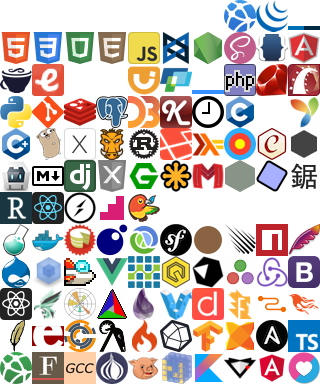
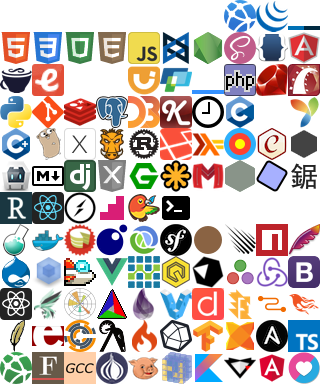
Finish Fish scraper

Changed region(s): [[0.5, 0.5, 0.5938, 0.5938]]

diff --git a/assets/stylesheets/global/_icons.scss b/assets/stylesheets/global/_icons.scss
@@ -116,6 +116,7 @@
 ._icon-socketio:before      { background-position: -2rem -6rem; }
 ._icon-modernizr:before     { background-position: -3rem -6rem; }
 ._icon-bower:before         { background-position: -4rem -6rem; }
+._icon-fish:before          { background-position: -5rem -6rem; @extend %darkIconFix !optional; }
 ._icon-bottle:before        { background-position: 0 -7rem; }
 ._icon-docker:before        { background-position: -1rem -7rem; }
 ._icon-cakephp:before       { background-position: -2rem -7rem; }

diff --git a/lib/docs/scrapers/fish.rb b/lib/docs/scrapers/fish.rb
@@ -2,35 +2,29 @@ module Docs
   class Fish < UrlScraper
     self.name = 'Fish'
     self.type = 'fish'
+    self.root_path = 'index.html'
     self.links = {
-      home: 'http://fishshell.com/',
+      home: 'https://fishshell.com/',
       code: 'https://github.com/fish-shell/fish-shell'
     }
 
     html_filters.push 'fish/clean_html', 'fish/entries'
 
-    options[:only] = %w(
-      index.html
-      tutorial.html
-      commands.html
-      faq.html
-    )
+    options[:skip] = %w(design.html license.html)
 
     options[:attribution] = <<-HTML
       &copy; 2005&ndash;2009 Axel Liljencrantz<br>
-      &copy; 2009&ndash;2016 The fish contributors<br>
       Licensed under the GNU General Public License, version 2.
     HTML
 
     version '2.3' do
       self.release = '2.3.1'
-      self.base_url = "http://fishshell.com/docs/#{version}/"
-      self.root_path = 'index.html'
+      self.base_url = "https://fishshell.com/docs/#{version}/"
     end
+
     version '2.2' do
       self.release = '2.2.0'
-      self.base_url = "http://fishshell.com/docs/#{version}/"
-      self.root_path = 'index.html'
+      self.base_url = "https://fishshell.com/docs/#{version}/"
     end
   end
 end

diff --git a/lib/docs/filters/fish/entries.rb b/lib/docs/filters/fish/entries.rb
@@ -1,17 +1,28 @@
 module Docs
   class Fish
     class EntriesFilter < Docs::EntriesFilter
+      def get_name
+        if slug == 'faq'
+          'FAQ'
+        else
+          slug.capitalize
+        end
+      end
 
-      def include_default_entry?
-        false
+      def get_type
+        if root_page? || slug == 'faq'
+          'Manual'
+        else
+          name
+        end
       end
 
       def additional_entries
-        css('h2').each_with_object [] do |node, entries|
-          name = node.content.split(' - ').first
-          id = node['id']
-          type = root_page? ? 'Reference' : (slug == 'faq' ? 'FAQ' : slug.capitalize)
-          entries << [name, id, type]
+        return [] if slug == 'faq'
+        css('h2').map.with_index do |node, i|
+          name = node.content.split(' - ').first.strip
+          name.prepend "#{i + 1}. " unless slug == 'commands'
+          [name, node['id'], get_type]
         end
       end
     end

diff --git a/lib/docs/filters/fish/clean_html.rb b/lib/docs/filters/fish/clean_html.rb
@@ -14,12 +14,12 @@ module Docs
           node.name = 'h2'
         end
 
-        css('h2 > a').each do |node|
+        css('.anchor').each do |node|
           node.parent['id'] = node['id']
         end
 
         css('pre').each do |node|
-          node['class'] = 'fish' # Prism may support fish in the future
+          node['data-language'] = 'fish' # Prism may support fish in the future
           node.content = node.content
         end
 
